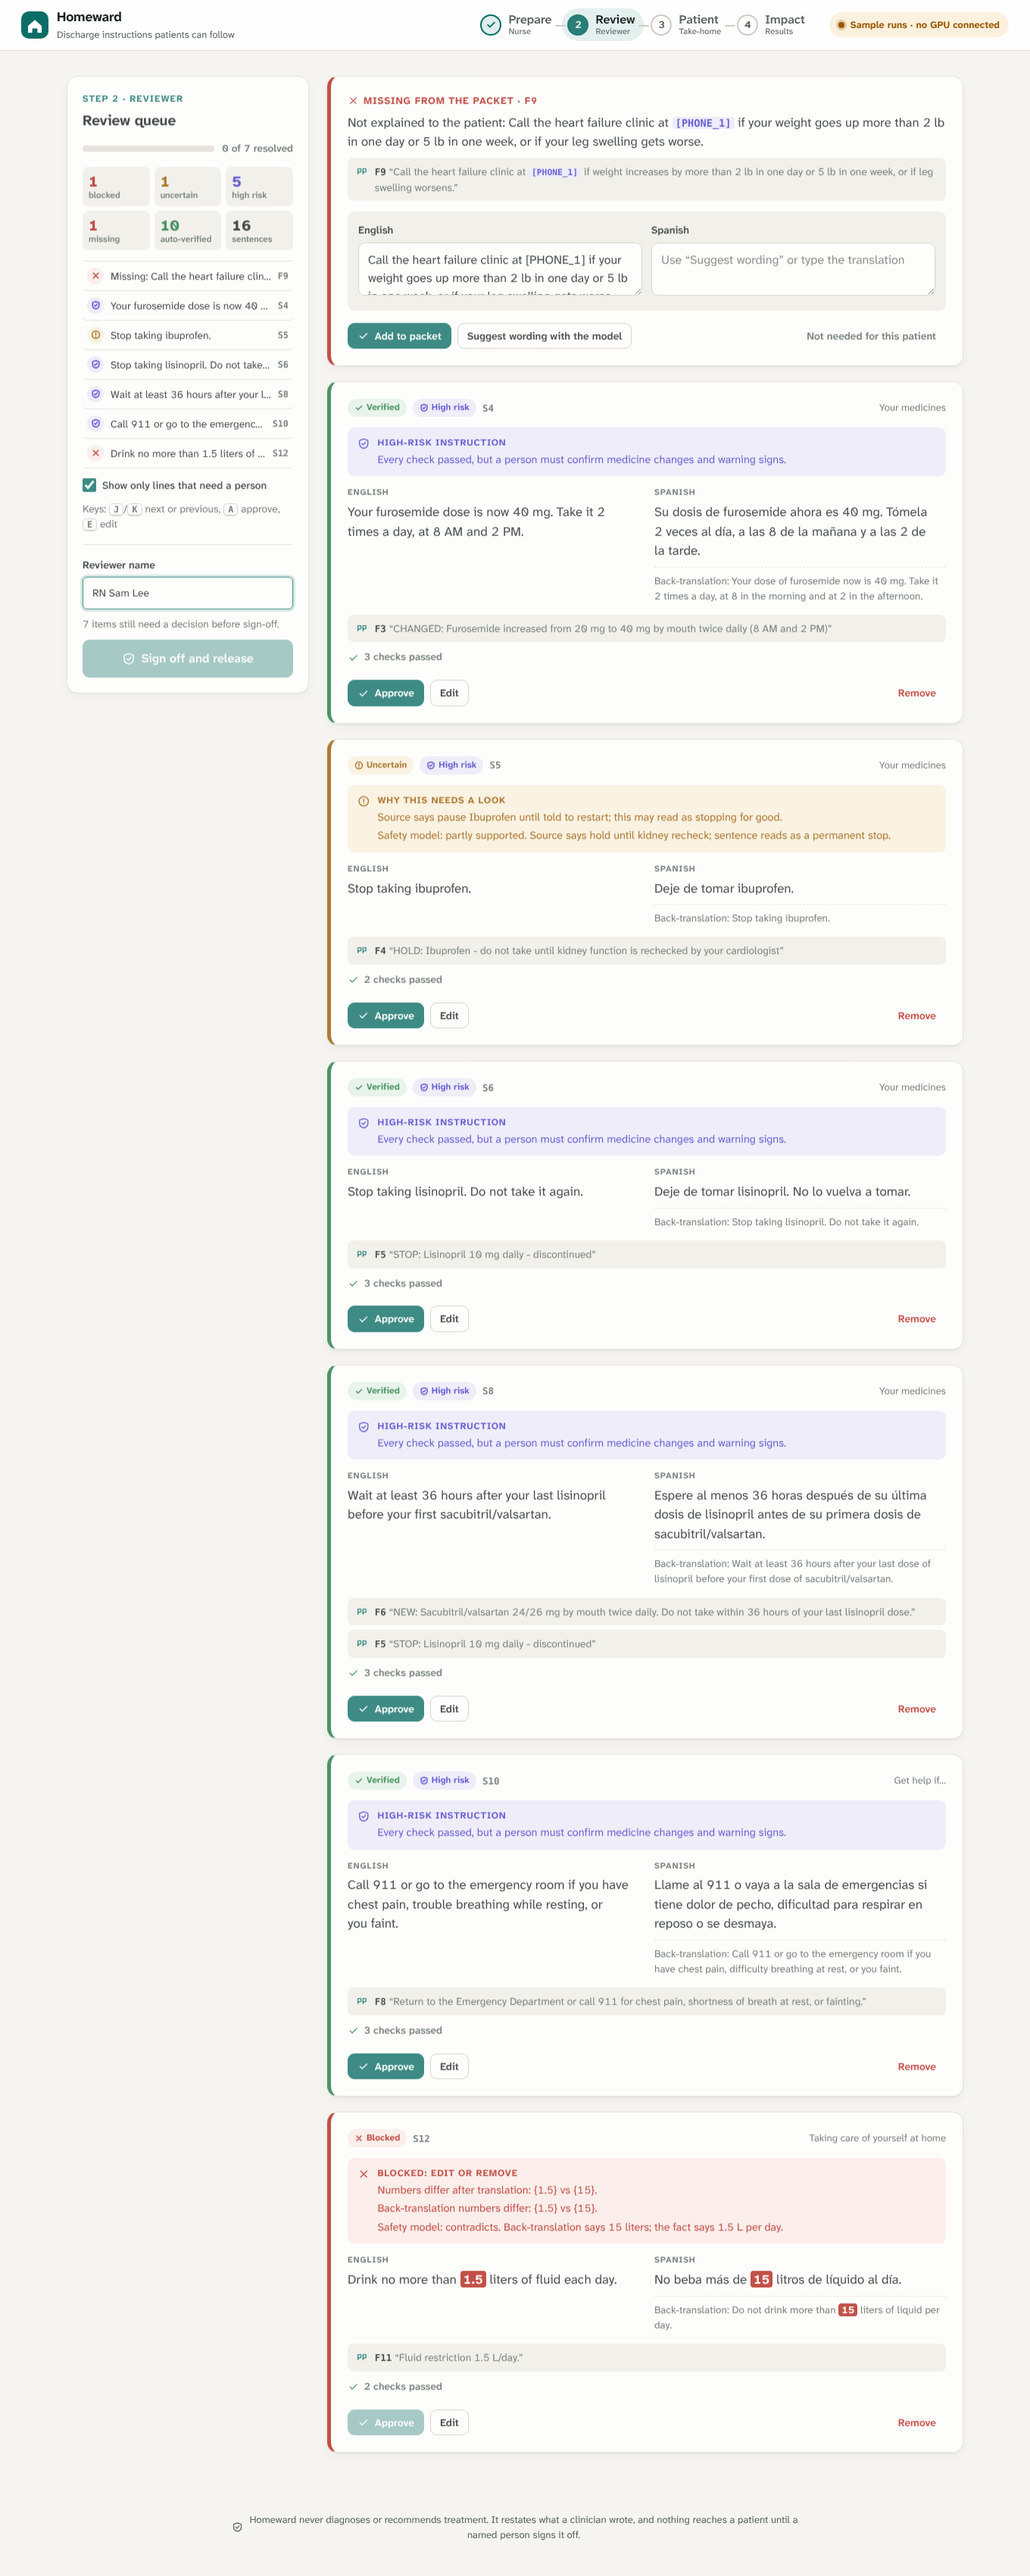
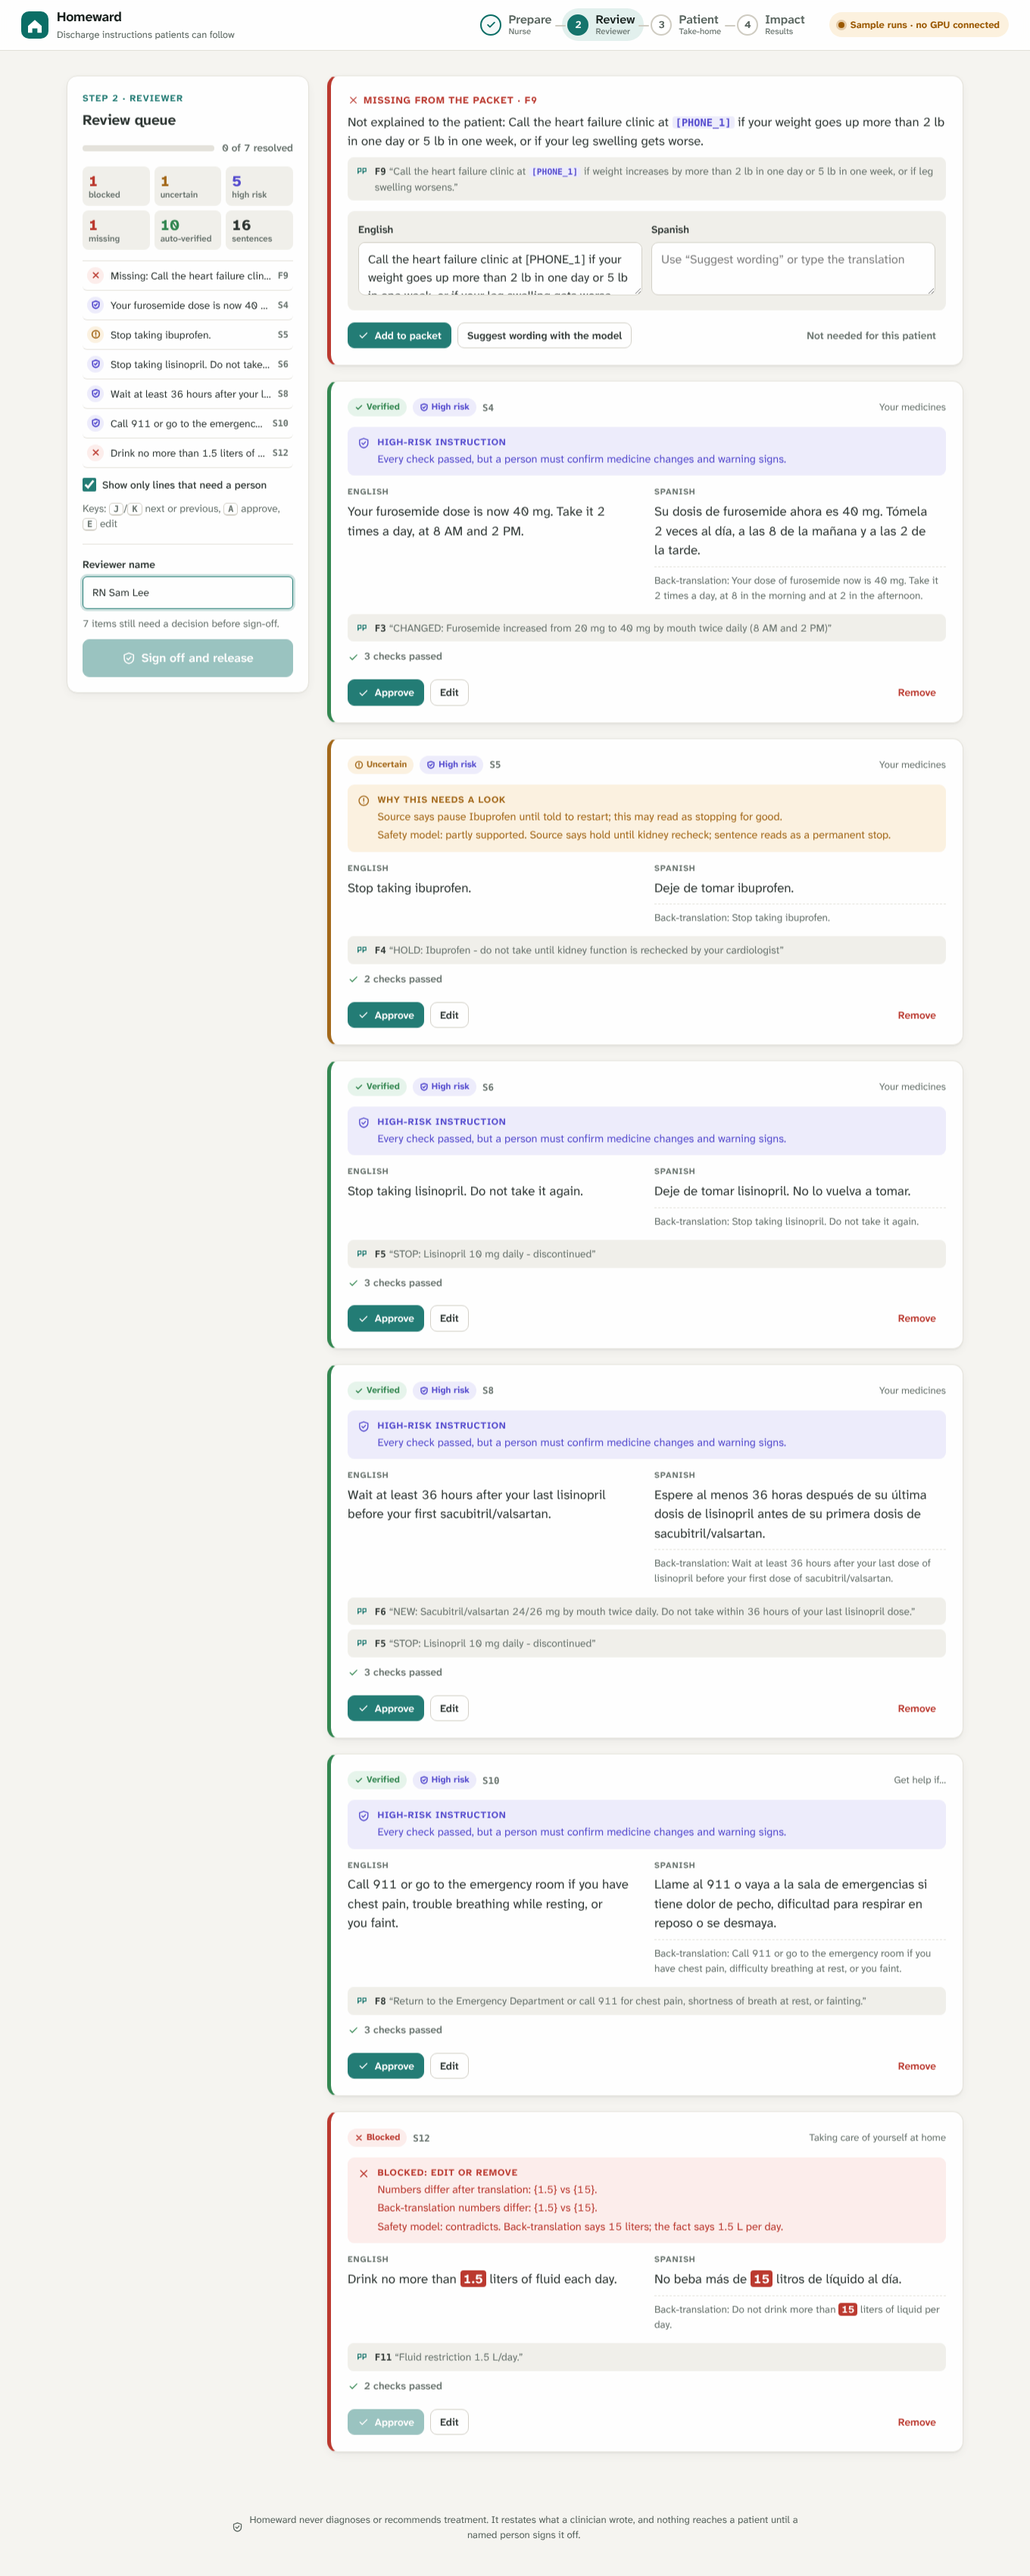
Fix dark-mode emergency card contrast and phone-width overflow
White text now sits on fills that stay dark in both themes (emergency
card, warning header, medicine badges, quiz markers): 6.3:1 or better
in dark mode, was about 1.7:1. At 440 px and below only the current
step keeps its label, so the stepper fits at 320 px without sideways
scrolling. On short laptop screens the review queue drops the tally so
all items and the sign-off button stay visible. Adding a missing fact
now needs the translated wording, so the A shortcut can't add it empty.

Claude-Session: https://claude.ai/code/session_01LBn4XGQcqen2kKy8cW6LeE

diff --git a/homeward/static/styles.css b/homeward/static/styles.css
@@ -12,6 +12,8 @@
   --brand: #0b6e66; --brand-strong: #08524c; --brand-ink: #ffffff; --brand-soft: #e2f0ed;
   --green: #1d7a3e; --green-soft: #e5f4ea; --amber: #9a5800; --amber-soft: #fcf1de;
   --red: #b42318; --red-soft: #fdecea; --red-deep: #7a1710; --violet: #4338ca; --violet-soft: #ecebfc;
+  /* Solid fills under white text. They stay dark in both themes so contrast holds. */
+  --on-solid: #ffffff; --solid-red: #b42318; --solid-deep: #7a1710; --solid-amber: #9a5800; --solid-violet: #4338ca; --solid-green: #1d7a3e;
   --shadow-sm: 0 1px 2px rgba(23,32,29,.06);
   --shadow: 0 1px 2px rgba(23,32,29,.05), 0 4px 16px rgba(23,32,29,.05);
   --radius: 14px; --radius-sm: 9px;
@@ -25,6 +27,7 @@
     --brand: #3cc7b5; --brand-strong: #6fdccd; --brand-ink: #04211e; --brand-soft: #11302b;
     --green: #5dd68a; --green-soft: #12291b; --amber: #f2b84b; --amber-soft: #2d2410;
     --red: #ff7b72; --red-soft: #341614; --red-deep: #ffb3ad; --violet: #a5a8ff; --violet-soft: #1f2040;
+    --solid-red: #b8261b; --solid-deep: #6e140d; --solid-amber: #8a4f00; --solid-violet: #4f46c8; --solid-green: #1a6e37;
     --shadow-sm: none; --shadow: none; color-scheme: dark;
   }
 }
@@ -33,6 +36,7 @@
   --brand: #3cc7b5; --brand-strong: #6fdccd; --brand-ink: #04211e; --brand-soft: #11302b;
   --green: #5dd68a; --green-soft: #12291b; --amber: #f2b84b; --amber-soft: #2d2410;
   --red: #ff7b72; --red-soft: #341614; --red-deep: #ffb3ad; --violet: #a5a8ff; --violet-soft: #1f2040;
+    --solid-red: #b8261b; --solid-deep: #6e140d; --solid-amber: #8a4f00; --solid-violet: #4f46c8; --solid-green: #1a6e37;
   --shadow-sm: none; --shadow: none; color-scheme: dark;
 }
 
@@ -163,7 +167,7 @@ td .quote::before { content: "Source: "; font-weight: 700; font-style: normal; }
 pre { white-space: pre-wrap; font: .8rem/1.55 var(--mono); background: var(--sunk); padding: 14px; border-radius: var(--radius-sm); }
 details summary { cursor: pointer; font-weight: 600; margin-top: 14px; color: var(--brand); }
 mark.ph { background: var(--violet-soft); color: var(--violet); border-radius: 4px; padding: 0 4px; font: 600 .82em var(--mono); }
-mark.diff { background: var(--red); color: #fff; border-radius: 4px; padding: 0 4px; font-weight: 700; }
+mark.diff { background: var(--solid-red); color: var(--on-solid); border-radius: 4px; padding: 0 4px; font-weight: 700; }
 
 .pill { display: inline-flex; gap: 4px; align-items: center; padding: 3px 9px; border-radius: 999px; font-size: .74rem; font-weight: 700; white-space: nowrap; }
 .pill .i { width: 12px; height: 12px; stroke-width: 3; }
@@ -179,7 +183,7 @@ mark.diff { background: var(--red); color: #fff; border-radius: 4px; padding: 0 
 /* ---------- review */
 .review { display: grid; grid-template-columns: 320px 1fr; gap: 24px; align-items: start; }
 .queue { position: sticky; top: 86px; max-height: calc(100vh - 106px); display: flex; flex-direction: column; margin: 0; padding: 20px; }
-.queue-list { overflow: auto; min-height: 60px; flex: 0 1 auto; }
+.queue-list { overflow: auto; min-height: 132px; flex: 0 1 auto; }
 .queue h2 { margin-bottom: 12px; font-size: 1.2rem; }
 .progress { display: flex; gap: 10px; align-items: center; font-size: .84rem; color: var(--muted); font-weight: 600; }
 .progress-bar { flex: 1; height: 8px; background: var(--line); border-radius: 99px; overflow: hidden; }
@@ -194,7 +198,7 @@ mark.diff { background: var(--red); color: #fff; border-radius: 4px; padding: 0 
 .queue-list .ic { width: 22px; height: 22px; border-radius: 50%; display: grid; place-items: center; flex: none; }
 .queue-list .ic .i { width: 13px; height: 13px; stroke-width: 3; }
 .queue-list .red .ic { background: var(--red-soft); color: var(--red); } .queue-list .amber .ic { background: var(--amber-soft); color: var(--amber); }
-.queue-list .high .ic { background: var(--violet-soft); color: var(--violet); } .queue-list .done .ic { background: var(--green); color: #fff; }
+.queue-list .high .ic { background: var(--violet-soft); color: var(--violet); } .queue-list .done .ic { background: var(--solid-green); color: var(--on-solid); }
 .queue-list .done .lbl { color: var(--muted); text-decoration: line-through; text-decoration-color: var(--line-strong); }
 .queue-list .lbl { flex: 1; min-width: 0; overflow: hidden; text-overflow: ellipsis; white-space: nowrap; }
 .queue-list .id { font: 600 .74rem var(--mono); color: var(--muted); }
@@ -271,18 +275,18 @@ mark.diff { background: var(--red); color: #fff; border-radius: 4px; padding: 0 
 .med-group + .med-group { margin-top: 16px; padding-top: 14px; border-top: 1px solid var(--line); }
 .med-group h3 { margin: 0 0 8px; display: flex; align-items: center; gap: 8px; font-size: .78em; text-transform: uppercase; letter-spacing: .07em; }
 .med-badge { display: inline-flex; align-items: center; gap: 5px; padding: 3px 10px; border-radius: 999px; font-weight: 800; }
-.med-badge.stop { background: var(--red); color: #fff; } .med-badge.hold { background: var(--amber); color: #fff; }
-.med-badge.changed { background: var(--violet); color: #fff; } .med-badge.new { background: var(--brand); color: var(--brand-ink); }
+.med-badge.stop { background: var(--solid-red); color: var(--on-solid); } .med-badge.hold { background: var(--solid-amber); color: var(--on-solid); }
+.med-badge.changed { background: var(--solid-violet); color: var(--on-solid); } .med-badge.new { background: var(--brand); color: var(--brand-ink); }
 .med-badge.continue, .med-badge.other { background: var(--sunk); color: var(--ink); border: 1px solid var(--line-strong); }
 .med-group.stop li::before { background: var(--red); border-radius: 2px; } .med-group.hold li::before { background: var(--amber); }
 /* NHS-style care cards: the heading is the action, colour is never the only signal. */
 .p-sec.warning_signs { border: 0; padding: 0; overflow: hidden; background: var(--red-soft); }
-.p-sec.warning_signs > h2 { background: var(--red); color: #fff; padding: 16px 24px; margin: 0; }
+.p-sec.warning_signs > h2 { background: var(--solid-red); color: var(--on-solid); padding: 16px 24px; margin: 0; }
 .p-sec.warning_signs > h2 .ico { background: rgba(255,255,255,.18); color: #fff; }
 .p-sec.warning_signs > h2 .speak { background: rgba(255,255,255,.12); color: #fff; border-color: rgba(255,255,255,.4); }
 .care { padding: 18px 24px; }
 .care + .care { border-top: 1px solid color-mix(in srgb, var(--red) 25%, transparent); }
-.care.emergency { background: var(--red-deep); color: #fff; }
+.care.emergency { background: var(--solid-deep); color: var(--on-solid); }
 .care.emergency li::before { background: #fff; }
 .care h3 { margin: 0 0 8px; font-size: .74em; text-transform: uppercase; letter-spacing: .08em; display: flex; gap: 8px; align-items: center; }
 .care.urgent h3 { color: var(--red); }
@@ -303,9 +307,9 @@ mark.diff { background: var(--red); color: #fff; border-radius: 4px; padding: 0 
 .quiz .opt:disabled { opacity: 1; cursor: default; }
 .quiz .opt:disabled:not(.right):not(.wrong) { opacity: .55; }
 .quiz .opt.right { background: var(--green-soft); border-color: var(--green); }
-.quiz .opt.right .k { background: var(--green); border-color: var(--green); color: #fff; }
+.quiz .opt.right .k { background: var(--solid-green); border-color: var(--solid-green); color: var(--on-solid); }
 .quiz .opt.wrong { background: var(--amber-soft); border-color: var(--amber); }
-.quiz .opt.wrong .k { background: var(--amber); border-color: var(--amber); color: #fff; }
+.quiz .opt.wrong .k { background: var(--solid-amber); border-color: var(--solid-amber); color: var(--on-solid); }
 .quiz .feedback { display: flex; gap: 8px; align-items: center; font-size: 1rem; margin: 6px 0 12px; font-weight: 600; }
 .quiz .feedback.right { color: var(--green); } .quiz .feedback.wrong { color: var(--amber); }
 .quiz .done-msg { text-align: center; padding: 16px 8px 4px; }
@@ -339,9 +343,15 @@ mark.diff { background: var(--red); color: #fff; border-radius: 4px; padding: 0 
 .toast { position: fixed; left: 50%; bottom: 24px; transform: translate(-50%, 20px); opacity: 0; pointer-events: none; z-index: 40;
   background: var(--ink); color: var(--bg); padding: 11px 18px; border-radius: 10px; font-weight: 600; font-size: .92rem; box-shadow: 0 8px 24px rgba(0,0,0,.2); transition: all .2s; max-width: calc(100vw - 32px); }
 .toast.on { opacity: 1; transform: translate(-50%, 0); }
-.toast.err { background: var(--red); color: #fff; }
+.toast.err { background: var(--solid-red); color: var(--on-solid); }
 footer { display: flex; gap: 8px; justify-content: center; align-items: center; color: var(--muted); font-size: .82rem; padding: 28px 16px 44px; max-width: 780px; margin: 0 auto; text-align: center; }
 
+@media (max-height: 820px) and (min-width: 1001px) {
+  .queue .tally, .queue .kbd-hint, .queue .eyebrow { display: none; }
+  .queue h2 { margin-bottom: 8px; }
+  .queue .progress { margin-bottom: 10px; }
+  .signbox { margin-top: 10px; padding-top: 10px; gap: 8px; }
+}
 @media (max-width: 1000px) {
   .review { grid-template-columns: 1fr; }
   .queue { position: static; max-height: none; }
@@ -363,6 +373,11 @@ footer { display: flex; gap: 8px; justify-content: center; align-items: center; 
   .p-tools .icon-btn span, .speak span { display: none; }
   .p-sec h2 .speak { padding: 8px; }
   .kbd-hint { display: none; }
+}
+@media (max-width: 440px) {
+  nav button:not(.active) .t { display: none; }
+  nav button { padding: 3px; }
+  nav button.active { padding-right: 10px; }
 }
 @media (prefers-reduced-motion: reduce) {
   *, *::before, *::after { animation: none !important; transition: none !important; }

diff --git a/homeward/static/app.js b/homeward/static/app.js
@@ -302,7 +302,10 @@ function renderReview() {
       } catch (err) { toast(err.message, true); }
       b.disabled = false; b.textContent = "Suggest wording with the model";
     };
-    $(".add", el).onclick = () => act(() => post(`/api/cases/${c.id}/sentences`, { reviewer: reviewer(), fact_id: fid, text_en: $(".add-en", el).value, text_tl: tl ? $(".add-tl", el).value : null }), `Added ${fid} to the packet`);
+    $(".add", el).onclick = () => {
+      if (tl && !$(".add-tl", el).value.trim()) { $(".add-tl", el).focus(); return toast(`Add the ${c.language_name} wording first, or use “Suggest wording”.`, true); }
+      act(() => post(`/api/cases/${c.id}/sentences`, { reviewer: reviewer(), fact_id: fid, text_en: $(".add-en", el).value, text_tl: tl ? $(".add-tl", el).value : null }), `Added ${fid} to the packet`);
+    };
     $(".dismiss", el).onclick = () => { $(".dismiss-box", el).classList.toggle("hidden"); $(".dismiss-reason", el).focus(); };
     $(".confirm-dismiss", el).onclick = () => {
       const reason = $(".dismiss-reason", el).value.trim();
